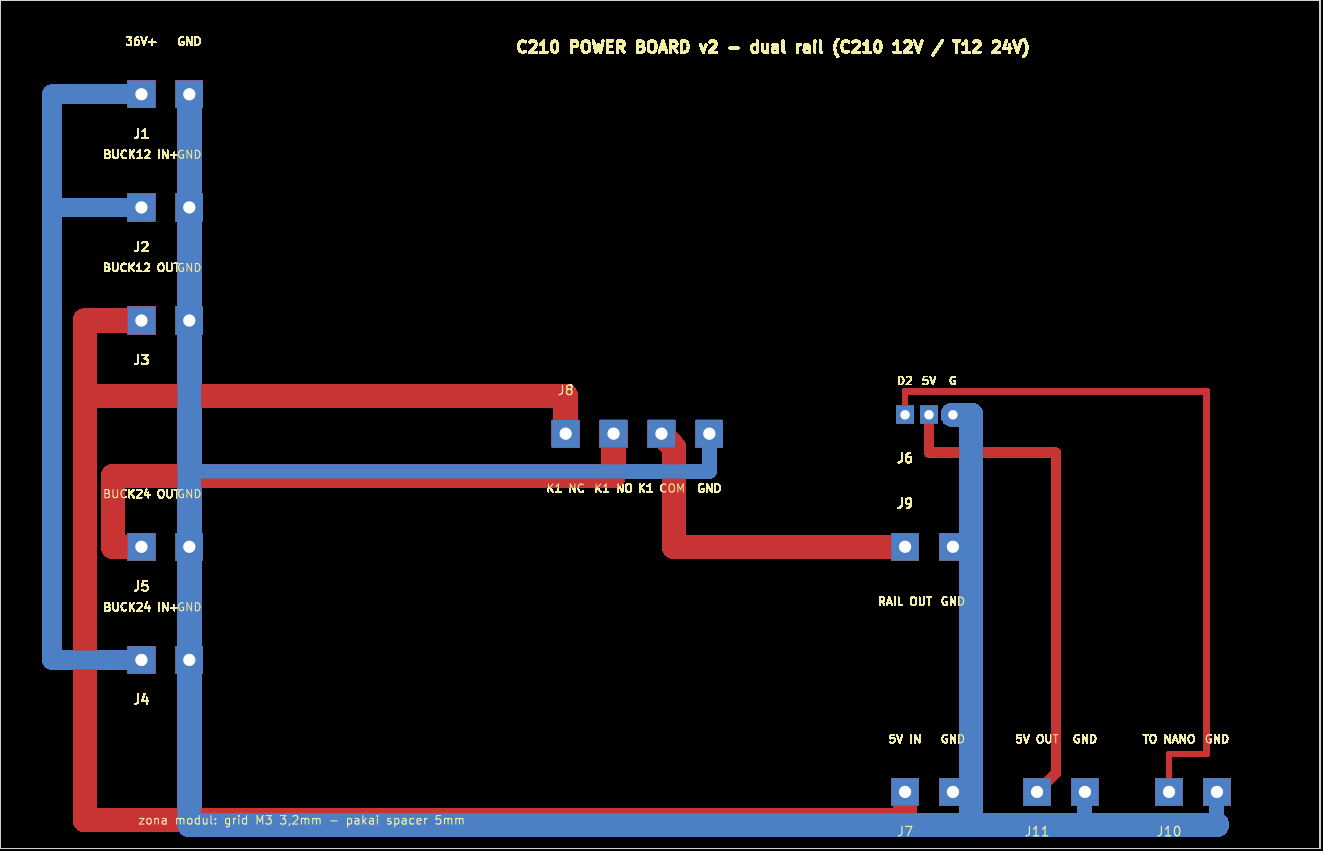
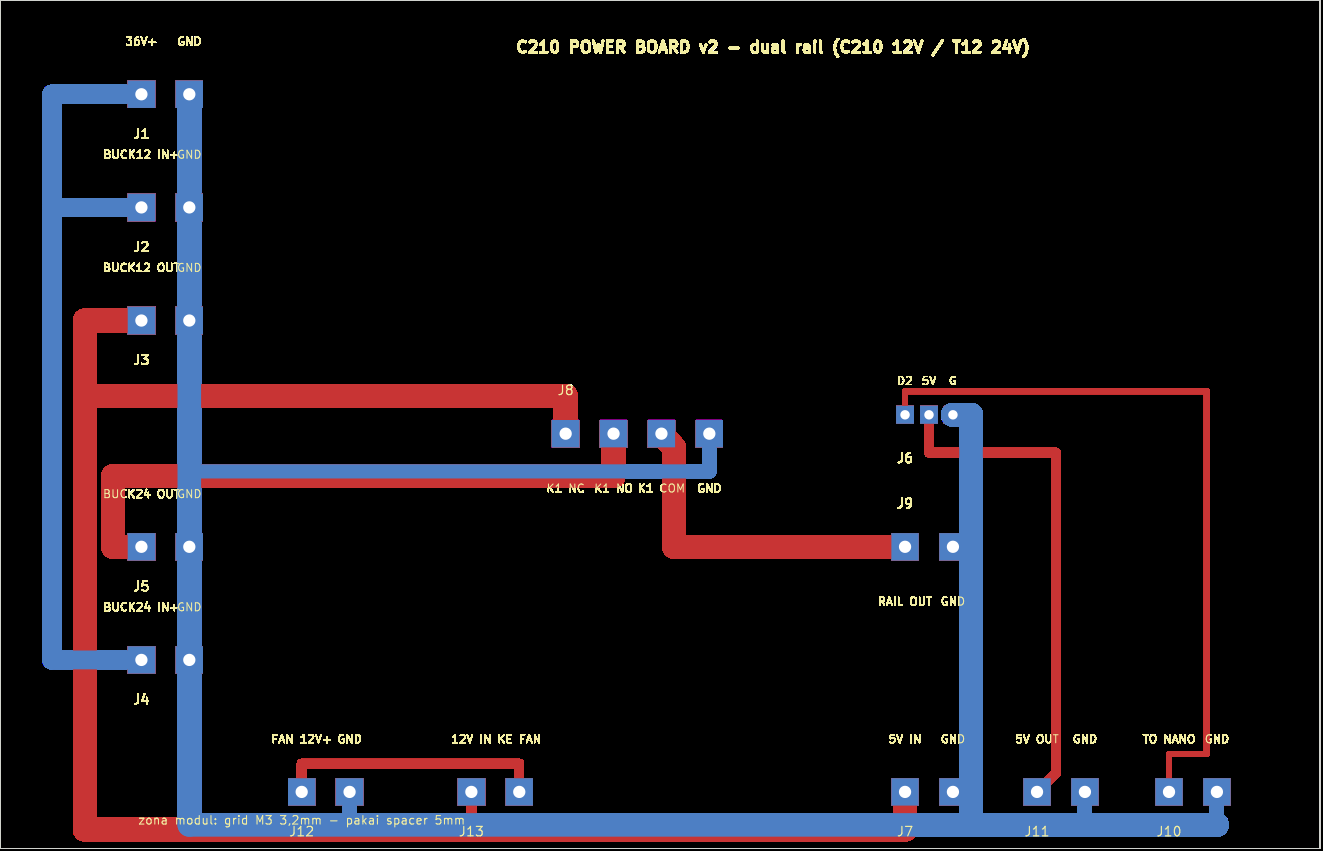
PCB v2: tambah terminal FAN 12V (J12) + jalur termostat (J13); DRC 0 error, clearance min 0,34mm

Changed region(s): [[0.062, 0.8555, 0.6818, 1.0]]

diff --git a/index.html b/index.html
@@ -119,6 +119,8 @@ const SECTIONS = [
     { name: "Buck 12V (rail C210)", spec: "xl4016 8a step down (XH-M404)", qty: 1, price: 29500, note: "C210 2Ω = 6A → XL4015 (5A) kurang. Alternatif: SZBK07 (6-40V, 20A CC/CV) atau modul 6A input 5,5-60V. Lihat tabel di 12-dual-rail-c210-t12.md" },
     { name: "MOSFET ≥40V pengganti IRLR7843", spec: "mosfet n-channel to-252 40v logic level", qty: 1, price: 15000, note: "WAJIB kalau rail 24V dipakai (IRLR7843 cuma 30V Vds)" },
     { name: "ID gagang: pin 5 = SP (sudah ada di PCB)", spec: "tidak perlu beli — verifikasi kontinuitas J3 pin 5 ↔ D10", qty: 1, price: 0, note: "T12: pin 5 ke GND di dalam gagang. Kalau SP ternyata bukan D10, 1 flywire dari socket Nano" },
+    { name: "Fan 12V 60mm + filter mesh", spec: "fan 12v 60mm 2 pin + filter", qty: 1, price: 20000, note: "sambung ke J12 board power; intake bawah, exhaust atas" },
+    { name: "Termostat bimetal 45°C (seri ke fan)", spec: "termostat bimetal 45c", qty: 1, price: 7000, note: "dipasang di J13; tanpa ini jumper J13 saja" },
     { name: "PCB POWER BOARD v2 (140×90mm, zona modul)", spec: "jasa cetak pcb 2 layer 140x90 — gerber dari 13-pcb-power/", qty: 1, price: 80000, note: "relay + 2 modul step-down + modul 5V duduk di PCB (grid lubang M3); 0 error DRC. Lihat 14-pcb-power-v2-140x90.md" },
     { name: "OPA2387 ganti LMV358", spec: "OPA2387 SOIC-8", qty: 1, price: 50000, note: "zero-drift, GBW 5,7MHz; kalibrasi ulang" },
     { name: "Buck 5V ganti 78M05", spec: "modul MP1584 step down", qty: 1, price: 12000, note: "WAJIB kalau rail 24V dipakai (78M05 buang ~2,3W); sekaligus suplai coil relay" },

diff --git a/13-pcb-power/verify.py b/13-pcb-power/verify.py
@@ -1,0 +1,94 @@
+#!/usr/bin/env python3
+"""Cek independen board (bukan DRC): konektivitas + clearance antar net.
+
+Pakai: python3 verify.py c210-power-v2.kicad_pcb
+- union-find pad+segmen (T-junction & lebar jalur dihitung) -> deteksi pad lepas
+- jarak tepi minimum antar net berbeda di layer sama -> laporan clearance
+"""
+import re, sys, math, collections
+
+path = sys.argv[1] if len(sys.argv) > 1 else "c210-power-v2.kicad_pcb"
+txt = open(path).read()
+nets = dict(re.findall(r'\(net (\d+) "([^"]*)"\)', txt))
+
+pads = []   # (net, x, y, size)
+for fpm in re.finditer(r'\(footprint [^\n]*\(at ([\d.]+) ([\d.]+)\)(.*?)\n  \)', txt, re.S):
+    fx, fy, body = float(fpm.group(1)), float(fpm.group(2)), fpm.group(3)
+    for pm in re.finditer(r'\(pad "[^"]*" thru_hole \w+ \(at ([\d.]+) ([\d.]+)\) \(size ([\d.]+) ([\d.]+)\)[^\n]*\(net (\d+)', body):
+        pads.append((int(pm.group(5)), round(fx + float(pm.group(1)), 2),
+                     round(fy + float(pm.group(2)), 2), float(pm.group(3))))
+
+segs = []   # (net, a, b, width, layer)
+for sm in re.finditer(r'\(segment \(start ([\d.]+) ([\d.]+)\) \(end ([\d.]+) ([\d.]+)\) \(width ([\d.]+)\) \(layer "([^"]+)"\) \(net (\d+)\)', txt):
+    segs.append((int(sm.group(7)), (float(sm.group(1)), float(sm.group(2))),
+                 (float(sm.group(3)), float(sm.group(4))), float(sm.group(5)), sm.group(6)))
+
+def d_pt_seg(pt, a, b):
+    (x, y), (x1, y1), (x2, y2) = pt, a, b
+    dx, dy = x2 - x1, y2 - y1
+    if dx == dy == 0:
+        return math.hypot(x - x1, y - y1)
+    t = max(0, min(1, ((x - x1) * dx + (y - y1) * dy) / (dx * dx + dy * dy)))
+    return math.hypot(x - (x1 + t * dx), y - (y1 + t * dy))
+
+def d_seg_seg(a1, b1, a2, b2):
+    return min(d_pt_seg(a1, a2, b2), d_pt_seg(b1, a2, b2),
+               d_pt_seg(a2, a1, b1), d_pt_seg(b2, a1, b1))
+
+parent = {}
+def find(x):
+    parent.setdefault(x, x)
+    while parent[x] != x:
+        parent[x] = parent[parent[x]]
+        x = parent[x]
+    return x
+def union(a, b):
+    parent[find(a)] = find(b)
+
+for i, (n1, a1, b1, w1, l1) in enumerate(segs):
+    for j, (n2, a2, b2, w2, l2) in enumerate(segs):
+        if i >= j or n1 != n2:
+            continue
+        if d_seg_seg(a1, b1, a2, b2) <= (w1 + w2) / 2 + 1e-6:
+            union(('seg', i), ('seg', j))
+
+for n, px, py, sz in pads:
+    for i, (n2, a, b, w, l) in enumerate(segs):
+        if n2 == n and d_pt_seg((px, py), a, b) <= w / 2 + sz / 2 + 1e-6:
+            union(('pad', n, (px, py)), ('seg', i))
+
+split, lone = [], []
+for net in sorted({n for n, _, _, _ in pads}):
+    grp = collections.defaultdict(list)
+    for n, px, py, sz in pads:
+        if n == net:
+            grp[find(('pad', n, (px, py)))].append((px, py))
+    if len(grp) > 1:
+        split.append((nets.get(str(net), '?'), [(len(v), v[:3]) for v in grp.values()]))
+for n, px, py, sz in pads:
+    if all(not (n2 == n and d_pt_seg((px, py), a, b) <= w / 2 + sz / 2 + 1e-6) for n2, a, b, w, l in segs):
+        lone.append((nets.get(str(n), '?'), (px, py)))
+
+gaps = []
+for i, (n1, a1, b1, w1, l1) in enumerate(segs):
+    for j, (n2, a2, b2, w2, l2) in enumerate(segs):
+        if i >= j or n1 == n2 or l1 != l2:
+            continue
+        gaps.append((d_seg_seg(a1, b1, a2, b2) - w1 / 2 - w2 / 2,
+                     nets.get(str(n1)), nets.get(str(n2)), l1))
+pad_gaps = []
+for n, px, py, sz in pads:
+    for n2, a, b, w, l in segs:
+        if n2 != n:
+            pad_gaps.append((d_pt_seg((px, py), a, b) - w / 2 - sz / 2, nets.get(str(n)), nets.get(str(n2)), (px, py)))
+gaps.sort(); pad_gaps.sort()
+
+print(f"== {path}: {len(pads)} pad, {len(segs)} segmen, {len(nets) - 1} net")
+print(f"  net terpecah          : {split if split else 'TIDAK ADA'}")
+print(f"  pad tanpa copper      : {lone if lone else 'TIDAK ADA'}")
+print(f"  clearance jalur-jalur : min {gaps[0][0]:.2f} mm ({gaps[0][1]} vs {gaps[0][2]} di {gaps[0][3]})" if gaps else "  clearance jalur-jalur : -")
+print(f"  clearance pad-jalur   : min {pad_gaps[0][0]:.2f} mm ({pad_gaps[0][1]} pad vs jalur {pad_gaps[0][2]} @{pad_gaps[0][3]})" if pad_gaps else "  clearance pad-jalur   : -")
+per_net = collections.defaultdict(set)
+for n, a, b, w, l in segs:
+    per_net[nets.get(str(n), '?')].add(w)
+print("  lebar per net         :", {k: sorted(v) for k, v in sorted(per_net.items())})

diff --git a/13-pcb-power/gen_v2.py b/13-pcb-power/gen_v2.py
@@ -16,7 +16,7 @@ import os
 OUT = os.path.dirname(os.path.abspath(__file__))
 NAME = "c210-power-v2"
 
-NETS = [(0, ""), (1, "GND"), (2, "V36"), (3, "V12"), (4, "V24"), (5, "CTRL_D2"), (6, "V5"), (7, "VRAIL")]
+NETS = [(0, ""), (1, "GND"), (2, "V36"), (3, "V12"), (4, "V24"), (5, "CTRL_D2"), (6, "V5"), (7, "VRAIL"), (8, "VFAN")]
 NM = dict(NETS)
 
 def term(ref, x, y, nets, labels, pitch=5.08, drill=1.3, pad=2.9, label_dy=-4.2, ref_dy=4.2):
@@ -48,6 +48,8 @@ J8 = pads(60, 46, 4)             # NC / NO / COM / GND
 J6 = pads(96, 44, 3, 2.54)       # relay ctrl: D2 / 5V / GND
 J9 = pads(96, 58, 2)             # RAIL OUT
 J7 = pads(96, 84, 2); J11 = pads(110, 84, 2); J10 = pads(124, 84, 2)
+J12 = pads(32, 84, 2)            # FAN 12V (VFAN, GND)
+J13 = pads(50, 84, 2)            # THERMO (V12 -> VFAN; jumper kalau tanpa termostat)
 
 FPS = [term("J1", 15, 10, [2, 1], ["36V+", "GND"], label_dy=-5.6),
        term("J2", 15, 22, [2, 1], ["BUCK12 IN+", "GND"], label_dy=-5.6),
@@ -59,7 +61,9 @@ FPS = [term("J1", 15, 10, [2, 1], ["36V+", "GND"], label_dy=-5.6),
        term("J9", 96, 58, [7, 1], ["RAIL OUT", "GND"], label_dy=5.8, ref_dy=-4.6),
        term("J7", 96, 84, [3, 1], ["5V IN", "GND"], label_dy=-5.6),
        term("J11", 110, 84, [6, 1], ["5V OUT", "GND"], label_dy=-5.6),
-       term("J10", 124, 84, [5, 1], ["TO NANO", "GND"], label_dy=-5.6)]
+       term("J10", 124, 84, [5, 1], ["TO NANO", "GND"], label_dy=-5.6),
+       term("J12", 32, 84, [8, 1], ["FAN 12V+", "GND"], label_dy=-5.6),
+       term("J13", 50, 84, [3, 8], ["12V IN", "KE FAN"], label_dy=-5.6)]
 
 SEG = []
 def path(pts, net, w, layer):
@@ -83,7 +87,7 @@ path([(20.08, 87.5), (129.08, 87.5)], 1, 2.5, "B.Cu")           # trunk bawah
 
 # ---------- F.Cu: rail ----------
 # V12: J3 -> corridor x=9 -> cabang ke J8.1 (NC) & terus ke J7.1 (5V in)
-path([J3[0], (9, 34), (9, 87), (96, 87), J7[0]], 3, 2.5, "F.Cu")
+path([J3[0], (9, 34), (9, 88), (96, 88), J7[0]], 3, 2.5, "F.Cu")
 path([(9, 42), (60, 42), J8[0]], 3, 2.5, "F.Cu")
 # V24: J5 -> corridor x=12 -> lane y=50.5 -> J8.2 (NO)
 path([J5[0], (12, 58), (12, 50.5), (65.08, 50.5), J8[1]], 4, 2.5, "F.Cu")
@@ -93,6 +97,10 @@ path([J8[2], (71.5, 47.5), (71.5, 58), J9[0]], 7, 2.5, "F.Cu")
 path([J11[0], (112, 82), (112, 48), (98.54, 48), J6[1]], 6, 1.0, "F.Cu")
 # D2: J6.1 -> lane y=41.5 -> J10.1
 path([J6[0], (96, 41.5), (128, 41.5), (128, 80), (124, 80), J10[0]], 5, 0.6, "F.Cu")
+# FAN: V12 -> J13.1 (thermostat in) ; J13.2 -> J12.1 (fan +) ; J12.2 -> GND trunk
+path([(50, 88), J13[0]], 3, 1.0, "F.Cu")
+path([J13[1], (55.08, 81), (32, 81), J12[0]], 8, 1.0, "F.Cu")
+path([J12[1], (37.08, 87.5)], 1, 1.5, "B.Cu")
 
 # ---------- lubang M3 (grid zona modul + sudut) ----------
 HOLES = [(5, 5), (135, 5), (5, 85), (135, 85)]

diff --git a/13-pcb-power/14-pcb-power-v2-140x90.md b/13-pcb-power/14-pcb-power-v2-140x90.md
@@ -30,6 +30,8 @@ pasang spacer 5 mm, lalu sambung kabel pendek ke terminal. Tidak ada risiko
 | J7 | 5V IN (diambil dari rail 12 V) | kanan bawah (96,84) |
 | J11 | 5V OUT (ke coil relay J6) | kanan bawah (110,84) |
 | J10 | TO NANO: D2 / GND | kanan bawah (124,84) |
+| J12 | FAN 12V: VFAN / GND | bawah (32,84) |
+| J13 | THERMO: 12V / KE FAN (seri ke fan) | bawah (50,84) |
 
 Alur: `36V → J2/J4 → modul step-down → J3 (12V) & J5 (24V) → K1 NC/NO → K1 COM →
 J9 RAIL OUT → J1 (+) board C210`. Relay dipilih firmware (pin D2).
@@ -69,6 +71,24 @@ Selain DRC, aku jalankan pemeriksaan geometri sendiri dari file `.kicad_pcb`
 | Jarak minimum pad ke jalur net lain | 0,34 mm; berikutnya 0,80 mm |
 | Lebar jalur per net | V12/V24/VRAIL 2,5 mm · V36 2,0 mm · GND 2,5/1,5 mm · V5 1,0 mm · D2 0,6 mm |
 | Layer per net | F.Cu: V12, V24, VRAIL, V5, D2 · B.Cu: V36, GND |
+
+## Kipas (fan) di box
+
+Board sudah menyediakan koneksinya:
+
+- **J13 = jalur fan (V12 masuk, KE FAN keluar)** — di sinilah termostat dipasang seri.
+  Tanpa termostat: cukup jumper/short kedua pad J13 → fan nyala terus.
+- **J12 = konektor fan** (VFAN + GND). Fan 12 V 60 mm ≈ 0,06-0,15 A (1-1,8 W),
+  jalurnya 1 mm (batas ~2,4 A) — lega.
+- Rail 12 V dari buck **selalu hidup** selama PSU nyala (relay hanya memilih rail
+  mana yang masuk ke board C210), jadi fan ikut nyala saat PSU dinyalakan.
+- Termostat murah: bimetal 45 °C seri (Rp5-8 rb), atau modul NTC 12 V (Rp10-15 rb)
+  kalau mau setpoint yang bisa diatur. Fan yang lebih "hening": 12 V dijalankan lewat
+  resistor seri 22-47 ohm (turun kecepatan, tapi pendinginan berkurang).
+
+Pemasangan di box: intake bawah + exhaust atas, arah udara melewati modul step-down
+(bukan ke sisi 220 V), kasih filter mesh di intake supaya flux/debu tidak menempel
+di bilah fan, dan jauhkan fan dari terminal 220 V board PSU.
 
 ## Kapasitas arus jalur (IPC-2221, 1 oz = 35 um)
 
